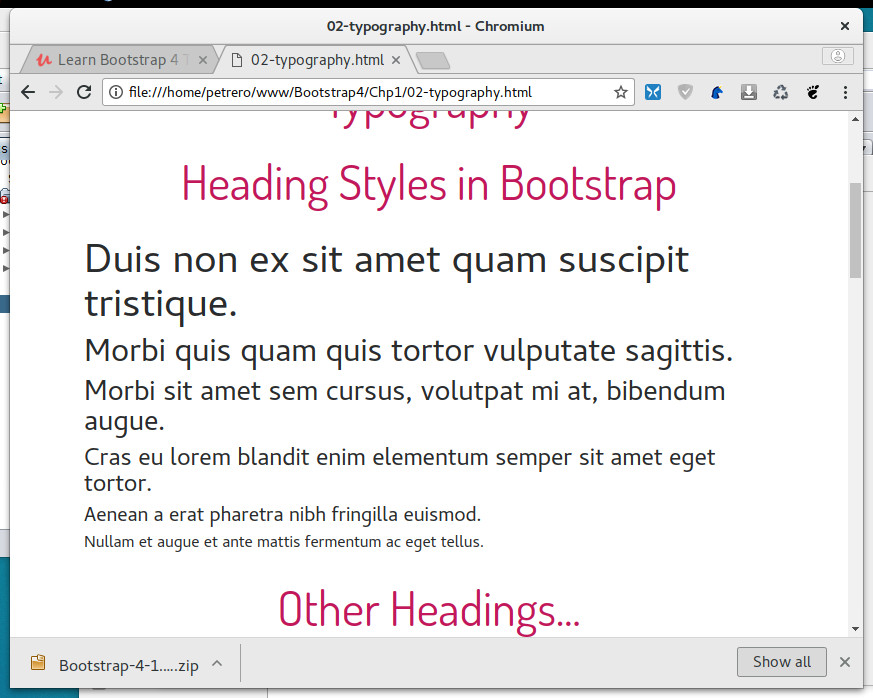
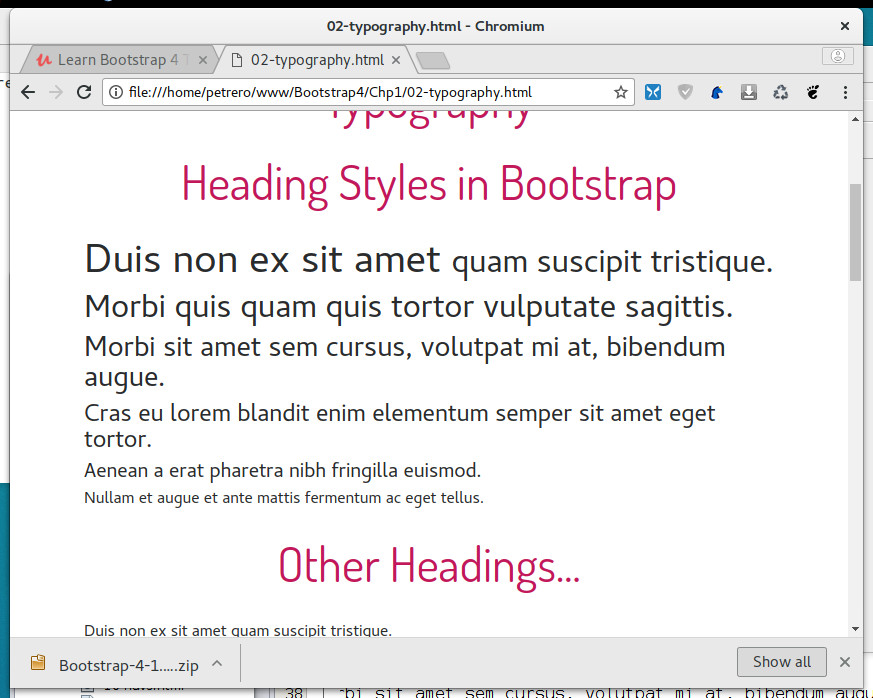
Create some opacity with text-muted class

diff --git a/Chp1/02-typography.html b/Chp1/02-typography.html
@@ -25,7 +25,7 @@
     <main class="container">
       <h2 class="lecture-title">Heading Styles in Bootstrap</h2>
 
-      <h1>Duis non ex sit amet <small>quam suscipit tristique.</small></h1>
+      <h1>Duis non ex sit amet <small class="text-muted">quam suscipit tristique.</small></h1>
       <h2>Morbi quis quam quis tortor vulputate sagittis.</h2>
       <h3>Morbi sit amet sem cursus, volutpat mi at, bibendum augue.</h3>
       <h4>Cras eu lorem blandit enim elementum semper sit amet eget tortor.</h4>
